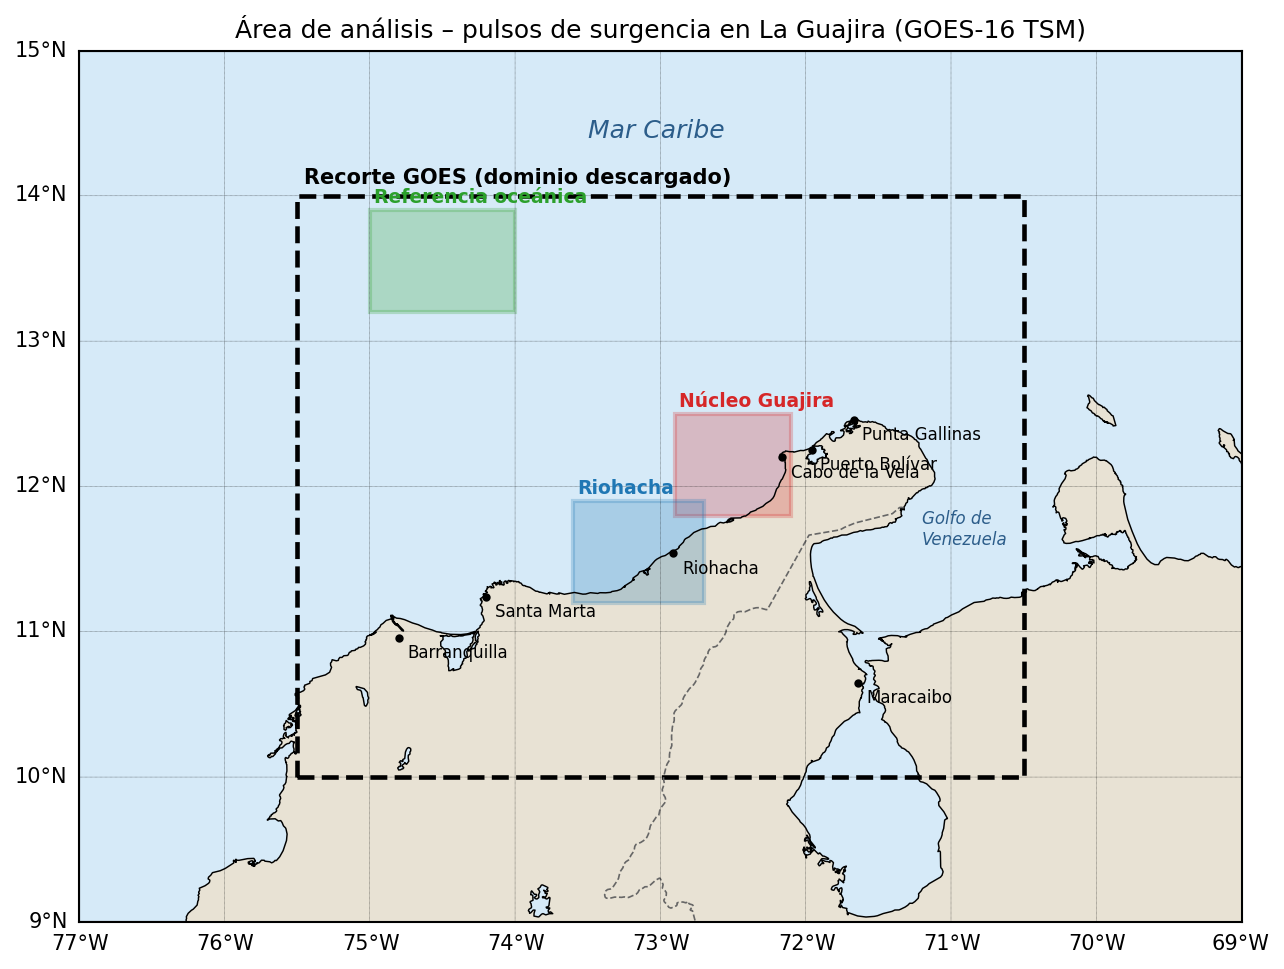
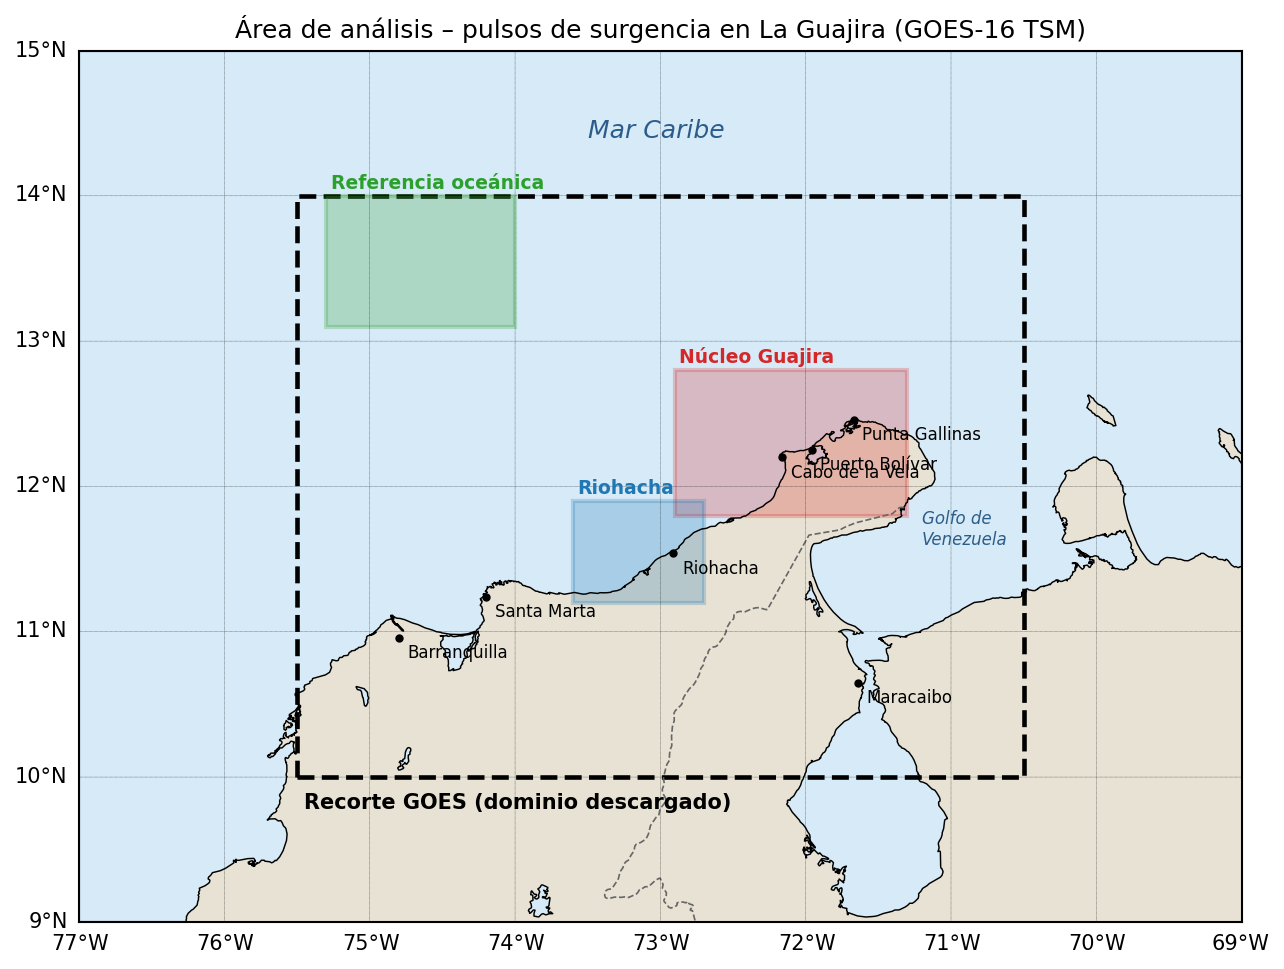
Ampliar nucleo hasta Punta Gallinas y referencia con pixeles de mar comparables
- Nucleo: 72.9-71.3 W / 11.8-12.8 N (~3200 pixeles de mar)
- Referencia: 75.3-74.0 W / 13.1-14.0 N (~3300 pixeles de mar)
- Riohacha sin cambios

Claude-Session: https://claude.ai/code/session_012ooxyCmkA3XHhPkaqYcyEx

Changed region(s): [[0.4984, 0.3406, 0.7165, 0.5573], [0.2181, 0.1548, 0.5607, 0.3406], [0.2181, 0.805, 0.5607, 0.8359]]

diff --git a/src/config.py b/src/config.py
@@ -12,14 +12,14 @@ DOMINIO = (-75.5, -70.5, 10.0, 14.0)
 
 # Areas donde se esperan cambios (lon_min, lon_max, lat_min, lat_max)
 AREAS = {
-    # Nucleo de surgencia al W del Cabo de la Vela, solo mar
-    # (lengua fria < 23 C en los mapas de feb 2023)
-    "Nucleo Guajira": (-72.9, -72.1, 11.8, 12.5),
+    # Nucleo de surgencia: desde la lengua fria al W del Cabo de la Vela hasta
+    # pasar Punta Gallinas, con mas mar al norte (~3200 pixeles de mar)
+    "Nucleo Guajira": (-72.9, -71.3, 11.8, 12.8),
     # Franja costera occidental Riohacha-Palomino
     "Riohacha": (-73.6, -72.7, 11.2, 11.9),
-    # Referencia oceanica: al NW, fuera de la lengua y los filamentos frios
-    # (la caja anterior, 73-72 W / 13-13.6 N, quedaba dentro de un filamento)
-    "Referencia oceanica": (-75.0, -74.0, 13.2, 13.9),
+    # Referencia oceanica: al NW, fuera de la lengua y los filamentos frios,
+    # con un numero de pixeles de mar similar al nucleo (~3300)
+    "Referencia oceanica": (-75.3, -74.0, 13.1, 14.0),
 }
 
 # Calidad: DQF == 0 es "good quality" en ABI-L2-SST

diff --git a/README.md b/README.md
@@ -17,11 +17,13 @@ El script lee por rangos solo la ventana del dominio, así que no baja el disco 
 
 ## Áreas
 
-| Área | Lon | Lat |
-|---|---|---|
-| Núcleo Guajira (lengua fría al W del Cabo de la Vela) | 72.9–72.1 W | 11.8–12.5 N |
-| Riohacha (franja costera occidental) | 73.6–72.7 W | 11.2–11.9 N |
-| Referencia oceánica (fuera de filamentos fríos) | 75.0–74.0 W | 13.2–13.9 N |
+| Área | Lon | Lat | Píxeles de mar (aprox.) |
+|---|---|---|---|
+| Núcleo Guajira (Cabo de la Vela hasta pasar Punta Gallinas) | 72.9–71.3 W | 11.8–12.8 N | ~3200 |
+| Riohacha (franja costera occidental) | 73.6–72.7 W | 11.2–11.9 N | ~1200 |
+| Referencia oceánica (fuera de filamentos fríos) | 75.3–74.0 W | 13.1–14.0 N | ~3300 |
+
+Las cajas son una elección de trabajo, no vienen de la literatura (la primera versión del núcleo seguía a Gutiérrez Leones et al. 2015). El núcleo y la referencia tienen un número parecido de píxeles de mar para que el ruido de sus promedios sea comparable.
 
 `figuras/mapa_areas.png` muestra el recorte y las cajas.
 
